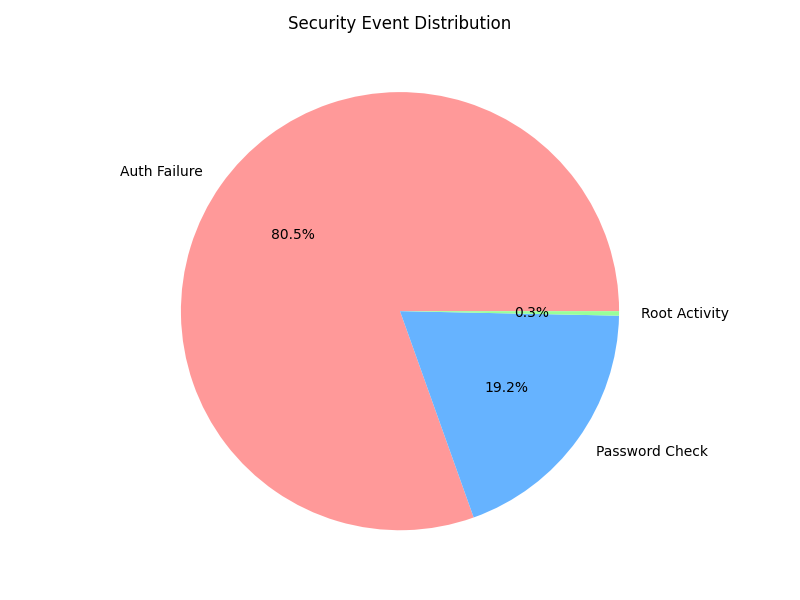
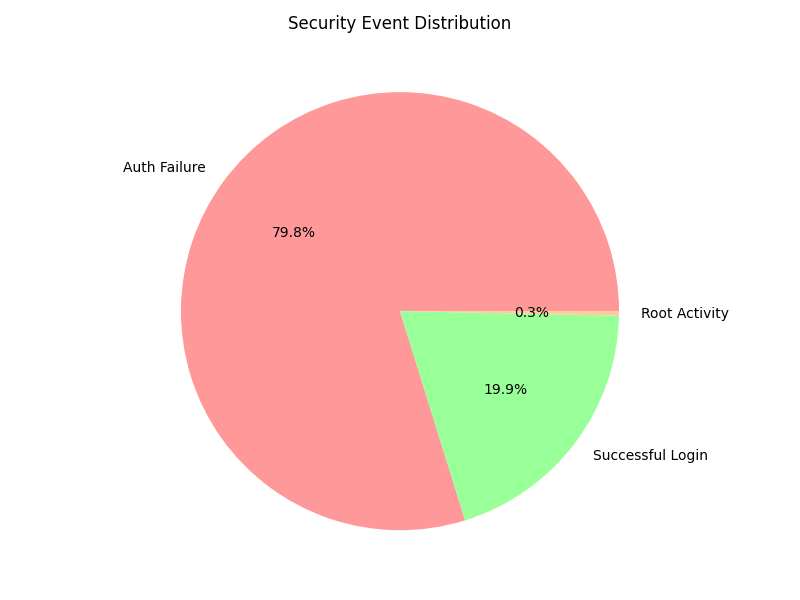
report done

diff --git a/summary_new2.py b/summary_new2.py
@@ -64,24 +64,29 @@ def generate_advanced_report(file_path, output_txt='Log_Analysis_Report.txt'):
 
     df_logs['Template ID'] = df_logs['Template ID'].astype(str)
 
-    # --- SEVERITY & SECURITY TAGGING ---
+    # --- STRICT SEVERITY TAGGING ---
     def classify_severity(row):
         text = (str(row['Raw Log']) + " " + str(row['Meaning Log'])).lower()
-        if any(x in text for x in ['illegal', 'refused', 'panic', 'fatal', 'critical']):
+        
+        # STRICT CRITICAL: Must have high-severity words
+        if any(x in text for x in ['critical', 'fatal', 'panic', 'emergency', 'alert', 'segmentation fault', 'died']):
             return 'CRITICAL'
-        elif any(x in text for x in ['fail', 'error', 'warning', 'denied', 'unable', 'bad']):
+        
+        # STRICT WARNING: Must have "warning" (excluding simple "fail")
+        elif any(x in text for x in ['warning', 'warn']):
             return 'WARNING'
-        else:
-            return 'INFO'
+        
+        return 'INFO'
             
     df_logs['Severity'] = df_logs.apply(classify_severity, axis=1)
 
     def classify_security(row):
         text = str(row['Raw Log']).lower()
-        if 'root' in text and 'session' in text: return 'Root Activity'
-        if 'authentication failure' in text: return 'Auth Failure'
-        if 'check pass' in text: return 'Password Check'
         if 'illegal' in text: return 'Illegal Access'
+        if 'authentication failure' in text: return 'Auth Failure'
+        if 'root' in text and 'session' in text: return 'Root Activity'
+        if 'session opened' in text or 'logged in' in text or 'accepted' in text: 
+            return 'Successful Login'
         return 'Normal'
         
     df_logs['Security_Tag'] = df_logs.apply(classify_security, axis=1)
@@ -136,17 +141,17 @@ def generate_advanced_report(file_path, output_txt='Log_Analysis_Report.txt'):
     else:
         peak_str, peak_vol = "N/A", 0
 
-    # Chart 2: Services (FIXED: Now has labels)
+    # Chart 2: Services
     plt.figure(figsize=(10, 5))
     ax = df_logs['Service'].value_counts().head(10).sort_values().plot(kind='barh', color='#2ca02c')
     ax.xaxis.set_major_locator(plt.MaxNLocator(integer=True))
-    add_bar_labels(ax) # <-- Added this
+    add_bar_labels(ax)
     plt.title('Top System Services')
     plt.tight_layout()
     plt.savefig('2_top_services.png')
     plt.close()
 
-    # Chart 3: Templates (Already had labels)
+    # Chart 3: Templates
     plt.figure(figsize=(10, 6))
     top_templates = df_logs['Template ID'].value_counts().head(8).sort_values()
     ax = top_templates.plot(kind='barh', color='#ff7f0e')
@@ -157,19 +162,19 @@ def generate_advanced_report(file_path, output_txt='Log_Analysis_Report.txt'):
     plt.savefig('3_top_templates.png')
     plt.close()
 
-    # Chart 4: Users (FIXED: Now has labels)
+    # Chart 4: Users
     plt.figure(figsize=(10, 5))
     ax = df_logs[df_logs['USERNAME'] != 'N/A']['USERNAME'].value_counts().head(10).sort_values().plot(kind='barh', color='#9467bd')
-    add_bar_labels(ax) # <-- Added this
+    add_bar_labels(ax)
     plt.title('Top Active Users')
     plt.tight_layout()
     plt.savefig('4_top_users.png')
     plt.close()
 
-    # Chart 5: IPs (FIXED: Now has labels)
+    # Chart 5: IPs
     plt.figure(figsize=(10, 5))
     ax = df_logs[df_logs['RHOST'] != 'N/A']['RHOST'].value_counts().head(10).sort_values().plot(kind='barh', color='#d62728')
-    add_bar_labels(ax) # <-- Added this
+    add_bar_labels(ax)
     plt.title('Top Remote IPs')
     plt.tight_layout()
     plt.savefig('5_top_ips.png')
@@ -178,8 +183,18 @@ def generate_advanced_report(file_path, output_txt='Log_Analysis_Report.txt'):
     # Chart 6: Security Breakdown
     plt.figure(figsize=(8, 6))
     security_counts = df_logs[df_logs['Security_Tag'] != 'Normal']['Security_Tag'].value_counts()
+    
+    color_map = {
+        'Successful Login': '#99ff99', 
+        'Auth Failure': '#ff9999',     
+        'Root Activity': '#ffcc99',    
+        'Illegal Access': '#c2c2f0',   
+        'Normal': '#f0f0f0'
+    }
+    colors = [color_map.get(x, '#cccccc') for x in security_counts.index]
+
     if not security_counts.empty:
-        security_counts.plot(kind='pie', autopct='%1.1f%%', colors=['#ff9999','#66b3ff','#99ff99','#ffcc99'])
+        security_counts.plot(kind='pie', autopct='%1.1f%%', colors=colors)
         plt.title('Security Event Distribution')
         plt.ylabel('')
     else:
@@ -201,14 +216,15 @@ def generate_advanced_report(file_path, output_txt='Log_Analysis_Report.txt'):
         return "; ".join(items)
 
     total_events = len(df_logs)
-    unique_templates = df_logs['Template ID'].nunique()
     
     # Stats
     sev_counts = df_logs['Severity'].value_counts()
     crit_count = sev_counts.get('CRITICAL', 0)
     warn_count = sev_counts.get('WARNING', 0)
+    
     root_events = df_logs[df_logs['Security_Tag'] == 'Root Activity']
     auth_fails = df_logs[df_logs['Security_Tag'] == 'Auth Failure']
+    success_logins = df_logs[df_logs['Security_Tag'] == 'Successful Login']
     
     summary_lines = [
         "============================================================",
@@ -228,6 +244,7 @@ def generate_advanced_report(file_path, output_txt='Log_Analysis_Report.txt'):
         f"🟠 Warning Events:      {warn_count} events detected",
         f"🔐 Auth Failures:       {len(auth_fails)} failed login attempts",
         f"⚡ Root Activity:       {len(root_events)} sessions involving root user",
+        f"✅ Successful Logins:   {len(success_logins)} sessions established",
         "",
         "3. ACTIVITY ANALYSIS",
         "---------------------",
@@ -244,12 +261,54 @@ def generate_advanced_report(file_path, output_txt='Log_Analysis_Report.txt'):
         "",
         "Top Remote Sources:",
         f"  -> {get_top_3_str(df_logs[df_logs['RHOST'] != 'N/A']['RHOST'].value_counts())}",
-        "",
-        "5. EVENT PATTERN DICTIONARY",
-        "------------------------------------",
-        "Definitions for the Top Event Templates:",
         ""
     ]
+
+    # --- NEW SECTION: STRICT HIGHLIGHTS (With Meanings) ---
+    summary_lines.append("5. RISK EVENT HIGHLIGHTS (Strictly Critical/Warning)")
+    summary_lines.append("--------------------------------------------------")
+    
+    # Filter only STRICT CRITICAL
+    crit_groups = df_logs[df_logs['Severity'] == 'CRITICAL'].groupby('Template ID')
+    sorted_crit = sorted(crit_groups, key=lambda x: len(x[1]), reverse=True)
+
+    if not sorted_crit:
+        summary_lines.append("✅ No 'Critical', 'Fatal', or 'Panic' events found.")
+    else:
+        summary_lines.append(f"🔴 CRITICAL / FATAL EVENTS ({len(crit_groups)} types):")
+        for tid, group in sorted_crit:
+            row = group.iloc[0]
+            summary_lines.append(f"   [Count: {len(group)}] Template {tid}")
+            summary_lines.append(f"   RAW:     {str(row['Raw Log'])[:120]}")
+            # Added MEANING Log here
+            summary_lines.append(f"   MEANING: {str(row['Meaning Log']).replace('\n', ' ').strip()}")
+            summary_lines.append("")
+
+    summary_lines.append("")
+
+    # Filter only STRICT WARNING
+    warn_groups = df_logs[df_logs['Severity'] == 'WARNING'].groupby('Template ID')
+    sorted_warn = sorted(warn_groups, key=lambda x: len(x[1]), reverse=True)
+
+    if not sorted_warn:
+        summary_lines.append("✅ No explicit 'Warning' events found.")
+    else:
+        summary_lines.append(f"🟠 WARNING EVENTS ({len(warn_groups)} types):")
+        for tid, group in sorted_warn:
+            row = group.iloc[0]
+            summary_lines.append(f"   [Count: {len(group)}] Template {tid}")
+            summary_lines.append(f"   RAW:     {str(row['Raw Log'])[:120]}")
+            # Added MEANING Log here
+            summary_lines.append(f"   MEANING: {str(row['Meaning Log']).replace('\n', ' ').strip()}")
+            summary_lines.append("")
+    
+    summary_lines.append("")
+    # -------------------------------
+
+    summary_lines.append("6. EVENT PATTERN DICTIONARY")
+    summary_lines.append("------------------------------------")
+    summary_lines.append("Definitions for the Top Event Templates:")
+    summary_lines.append("")
     
     top_templates_desc = df_logs['Template ID'].value_counts().head(8)
     for tid in top_templates_desc.index:

diff --git a/summary_new.py b/summary_new.py
@@ -64,32 +64,31 @@ def generate_advanced_report(file_path, output_txt='Log_Analysis_Report.txt'):
 
     df_logs['Template ID'] = df_logs['Template ID'].astype(str)
 
-    # --- ENHANCED SECURITY TAGGING ---
+    # --- STRICT SEVERITY TAGGING ---
     def classify_severity(row):
+        # We check both Raw Log and Meaning Log for explicit keywords
         text = (str(row['Raw Log']) + " " + str(row['Meaning Log'])).lower()
-        if any(x in text for x in ['illegal', 'refused', 'panic', 'fatal', 'critical']):
+        
+        # STRICT CRITICAL: Must have these exact high-severity words
+        if any(x in text for x in ['critical', 'fatal', 'panic', 'emergency', 'alert', 'segmentation fault', 'died']):
             return 'CRITICAL'
-        elif any(x in text for x in ['fail', 'error', 'warning', 'denied', 'unable', 'bad']):
+        
+        # STRICT WARNING: Must have "warning" or explicit "error" (excluding simple "fail")
+        # We deliberately exclude "failure" to avoid flagging every login fail as a system warning.
+        elif any(x in text for x in ['warning', 'warn']):
             return 'WARNING'
-        else:
-            return 'INFO'
+        
+        return 'INFO'
             
     df_logs['Severity'] = df_logs.apply(classify_severity, axis=1)
 
     def classify_security(row):
         text = str(row['Raw Log']).lower()
-        
-        # 1. Blocks & Fails
         if 'illegal' in text: return 'Illegal Access'
         if 'authentication failure' in text: return 'Auth Failure'
-        
-        # 2. High Interest
         if 'root' in text and 'session' in text: return 'Root Activity'
-        
-        # 3. Success (New Logic)
         if 'session opened' in text or 'logged in' in text or 'accepted' in text: 
             return 'Successful Login'
-            
         return 'Normal'
         
     df_logs['Security_Tag'] = df_logs.apply(classify_security, axis=1)
@@ -183,20 +182,17 @@ def generate_advanced_report(file_path, output_txt='Log_Analysis_Report.txt'):
     plt.savefig('5_top_ips.png')
     plt.close()
 
-    # Chart 6: Security Breakdown (Updated)
+    # Chart 6: Security Breakdown
     plt.figure(figsize=(8, 6))
     security_counts = df_logs[df_logs['Security_Tag'] != 'Normal']['Security_Tag'].value_counts()
     
-    # Custom colors for intuitive reading
-    # Success=Green, Fail=Red, Root=Orange, Illegal=Purple
     color_map = {
-        'Successful Login': '#99ff99', # Light Green
-        'Auth Failure': '#ff9999',     # Light Red
-        'Root Activity': '#ffcc99',    # Light Orange
-        'Illegal Access': '#c2c2f0',   # Light Purple
+        'Successful Login': '#99ff99', 
+        'Auth Failure': '#ff9999',     
+        'Root Activity': '#ffcc99',    
+        'Illegal Access': '#c2c2f0',   
         'Normal': '#f0f0f0'
     }
-    # Map colors based on what's present in data
     colors = [color_map.get(x, '#cccccc') for x in security_counts.index]
 
     if not security_counts.empty:
@@ -226,6 +222,7 @@ def generate_advanced_report(file_path, output_txt='Log_Analysis_Report.txt'):
     # Stats
     sev_counts = df_logs['Severity'].value_counts()
     crit_count = sev_counts.get('CRITICAL', 0)
+    warn_count = sev_counts.get('WARNING', 0)
     
     root_events = df_logs[df_logs['Security_Tag'] == 'Root Activity']
     auth_fails = df_logs[df_logs['Security_Tag'] == 'Auth Failure']
@@ -246,6 +243,7 @@ def generate_advanced_report(file_path, output_txt='Log_Analysis_Report.txt'):
         "2. SECURITY AUDIT",
         "---------------------",
         f"🔴 Critical Events:     {crit_count} events detected",
+        f"🟠 Warning Events:      {warn_count} events detected",
         f"🔐 Auth Failures:       {len(auth_fails)} failed login attempts",
         f"⚡ Root Activity:       {len(root_events)} sessions involving root user",
         f"✅ Successful Logins:   {len(success_logins)} sessions established",
@@ -265,12 +263,50 @@ def generate_advanced_report(file_path, output_txt='Log_Analysis_Report.txt'):
         "",
         "Top Remote Sources:",
         f"  -> {get_top_3_str(df_logs[df_logs['RHOST'] != 'N/A']['RHOST'].value_counts())}",
-        "",
-        "5. EVENT PATTERN DICTIONARY",
-        "------------------------------------",
-        "Definitions for the Top Event Templates:",
         ""
     ]
+
+    # --- NEW SECTION: STRICT HIGHLIGHTS ---
+    summary_lines.append("5. RISK EVENT HIGHLIGHTS (Strictly Critical/Warning)")
+    summary_lines.append("--------------------------------------------------")
+    
+    # Filter only STRICT CRITICAL
+    crit_groups = df_logs[df_logs['Severity'] == 'CRITICAL'].groupby('Template ID')
+    sorted_crit = sorted(crit_groups, key=lambda x: len(x[1]), reverse=True)
+
+    if not sorted_crit:
+        summary_lines.append("✅ No 'Critical', 'Fatal', or 'Panic' events found.")
+    else:
+        summary_lines.append(f"🔴 CRITICAL / FATAL EVENTS ({len(crit_groups)} types):")
+        for tid, group in sorted_crit:
+            row = group.iloc[0]
+            summary_lines.append(f"   [Count: {len(group)}] Template {tid}")
+            summary_lines.append(f"   RAW:     {str(row['Raw Log'])[:120]}")
+            summary_lines.append("")
+
+    summary_lines.append("")
+
+    # Filter only STRICT WARNING
+    warn_groups = df_logs[df_logs['Severity'] == 'WARNING'].groupby('Template ID')
+    sorted_warn = sorted(warn_groups, key=lambda x: len(x[1]), reverse=True)
+
+    if not sorted_warn:
+        summary_lines.append("✅ No explicit 'Warning' events found.")
+    else:
+        summary_lines.append(f"🟠 WARNING EVENTS ({len(warn_groups)} types):")
+        for tid, group in sorted_warn:
+            row = group.iloc[0]
+            summary_lines.append(f"   [Count: {len(group)}] Template {tid}")
+            summary_lines.append(f"   RAW:     {str(row['Raw Log'])[:120]}")
+            summary_lines.append("")
+    
+    summary_lines.append("")
+    # -------------------------------
+
+    summary_lines.append("6. EVENT PATTERN DICTIONARY")
+    summary_lines.append("------------------------------------")
+    summary_lines.append("Definitions for the Top Event Templates:")
+    summary_lines.append("")
     
     top_templates_desc = df_logs['Template ID'].value_counts().head(8)
     for tid in top_templates_desc.index:
